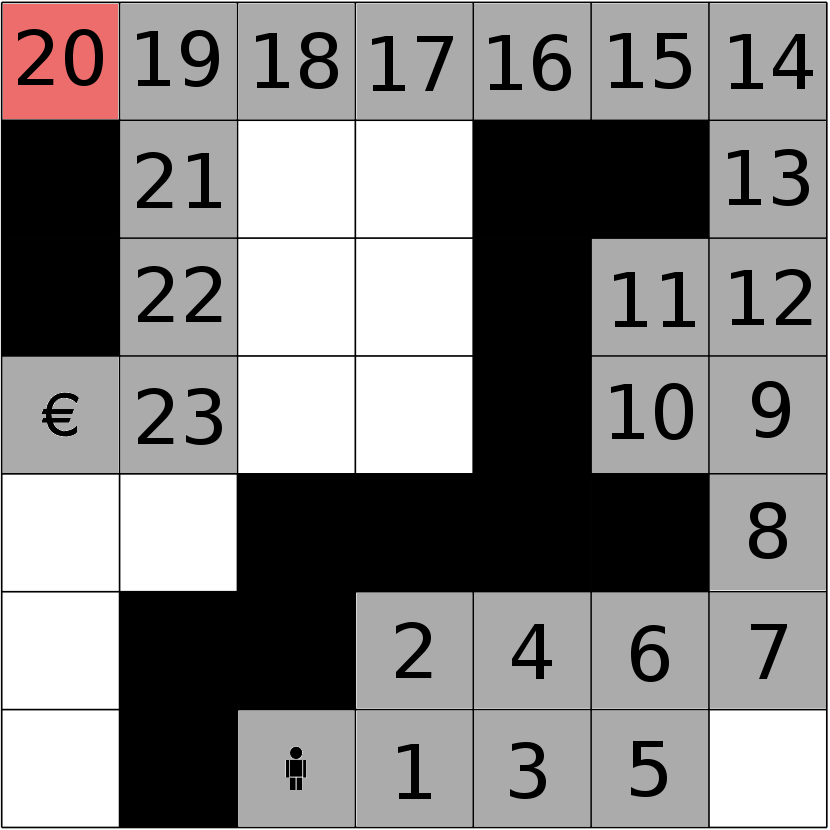
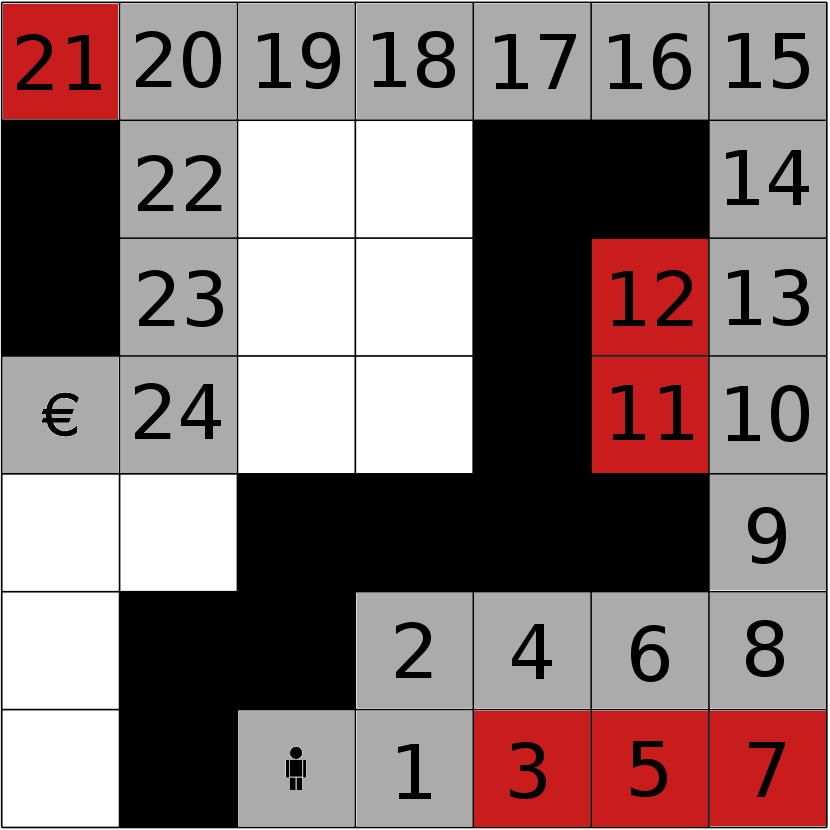
ajout du rapport

diff --git a/assignment2/LaTeX/rapport.tex b/assignment2/LaTeX/rapport.tex
@@ -20,7 +20,12 @@ in the fringe have the smallest value, the algorithm chooses the state with
 the smallest coordinate (\textit{i, j}) ((0, 0) being the bottom left position, \textit{i} being the
 horizontal index and \textit{j} the vertical one) using a lexicographical order.
     \begin{framed}
-      \missingfigure{A maze}
+        \begin{center}
+        \includegraphics[width=0.5\linewidth]{figure1_left.png}
+        \end{center}
+
+        The squares are visited following the numbering order and red nodes
+        are not included in the final path. 
     \end{framed}
   \item Show on the right maze the board positions visited by A graph search with
 a manhattan distance heuristic (ignoring walls). A state is visited when it is
@@ -28,7 +33,12 @@ selected in the fringe and expanded. When several states have the smallest
 path cost, this uniform-cost search visits them in the same lexicographical order
 as the one used for uniform-cost graph search.
     \begin{framed}
-      \missingfigure{A maze}
+        \begin{center}
+        \includegraphics[width=0.5\linewidth]{figure1_right.png}
+        \end{center}
+
+        The squares are visited following the numbering order and red nodes
+        are not included in the final path. 
     \end{framed}
 
 \end{enumerate}
@@ -39,14 +49,44 @@ as the one used for uniform-cost graph search.
  \item As illustrated on Figure 3 some situations cannot lead to a solution. Are there
 other similar situations? If yes, describe them.
   \begin{framed}
-    \todo[inline]{Réponse à faire}
+        Other similar situations that cannot lead to a solution happen :
+        \begin{itemize}
+            \item When a box is in a corner formed by walls and
+                this corner is not a target position for boxes ;
+            \item When two boxes are next to each other and both of the boxes cannot be moved so they act as
+                walls.
+        \end{itemize}
   \end{framed}
   \item Why is it important to identify dead states in your successor function? How
 are you going to implement it?
+    \begin{framed}
+        Identifying as many dead states as possible will allow us to reduce
+        the search space by stopping the exploration of branches that fell
+        in a dead state. Allowing us to reduce the time that our algorithm
+        need to find a solution. We are going to implement it by
+        identifying the situations mentioned in the answer to the previous
+        question.
+    \end{framed}
   \item Describe possible (non trivial) heuristic(s) to reach a goal state (with reference
 if any). Is(are) your heuristic(s) admissible and/or consistent?
     \begin{framed}
-      \todo[inline]{Réponse à faire}
+    A first interesting heuristic would be to give a fixed penalty for each
+    boxes that isn't on a target, allowing our algorithm to investigate
+    potential solution first. But this heuristic that is neither consistent
+    nor always admissible (depending on the penalty) has a quite a few
+    shortcoming as it might take a long time before the algorithm finds a
+    state worth investigating and that, if a box has to reach a target by
+    passing over another target, it will explore all the children of this
+    state before considering other solution. \newline
+
+    A second interesting heuristic, that solve the shortcomings of the
+    previous one, would be the sum of the manhattan distance from each
+    boxes to the closest target. Although this heuristic is not always
+    consistent as two boxes could calculate the manhattan distance with the
+    same target, it is always admissible as it won't ever overestimate the
+    cost to reach a solution. As this heuristic is also fast to compute, it
+    is extremely interesting to implement it or a close derivative in our
+    solution.
     \end{framed}
   \item Implement this problem. Extend the \textit{Problem} class and implement the necessary
 methods and other class(es) if necessary. Your file must be named \textit{sokoban.py}.
@@ -56,7 +96,7 @@ of the instance and you have to read from the two files .init and .goal, for
 instance, given instance instance1 you will read from files instance1.init
 and instance1.goal .
     \begin{framed}
-      \todo[inline]{Réponse à faire}
+        \includegraphics[width=0.8\linewidth]{test_passed.png}
     \end{framed}
   \item Experiment, compare and analyze informed (\textit{astar\_graph\_search}) and unin-
 formed (\textit{breadth\_first\_graph\_search}) graph search of aima-python3 on the 15
@@ -66,6 +106,25 @@ explored nodes always smaller with \textit{astar\_graph\_search}, why?
 When no solution can be found by a strategy in a reasonable time (say 5 min),
 explain the reason (time-out and/or swap of the memory).
     \begin{framed}
+    	\begin{tabular}{l|l|l}
+    					& A* 		& Breadth-first\\
+            \hline
+    		sokoInst01 	& 9ms		& 180ms \\
+    					& 71		& 2790 \\
+    					& 15		& 15 \\
+    		sokoInst02 	& 1s66		& 1s94 \\
+    					& 20947 	& 30368 \\
+    					& 65		& 65 \\
+    		sokoInst07 	& 450ms		& 710ms \\
+    					& 5311		& 9394 \\
+    					& 98		& 98 \\
+    		sokoInst08 	& 600ms		& 940ms \\
+    					& 6679		& 13628 \\
+    					& 108		& 90 \\
+    		sokoInst15 	& 15s		& 68s27 \\
+    					& 146013 	& 802991 \\
+    					& 68		& 56 \\
+    	\end{tabular}
       \todo[inline]{Réponse à faire}
     \end{framed}
   \item What are the performances of your program when you don’t perform dead state
